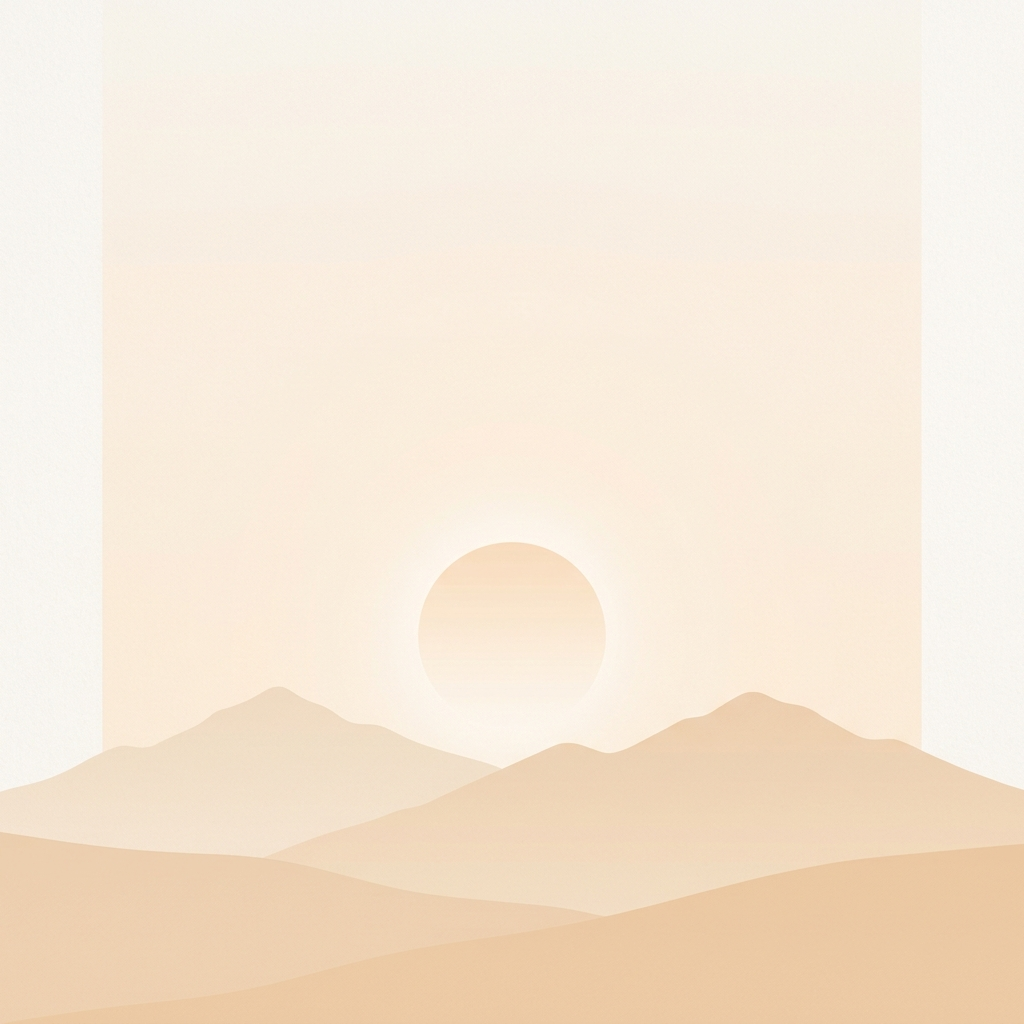
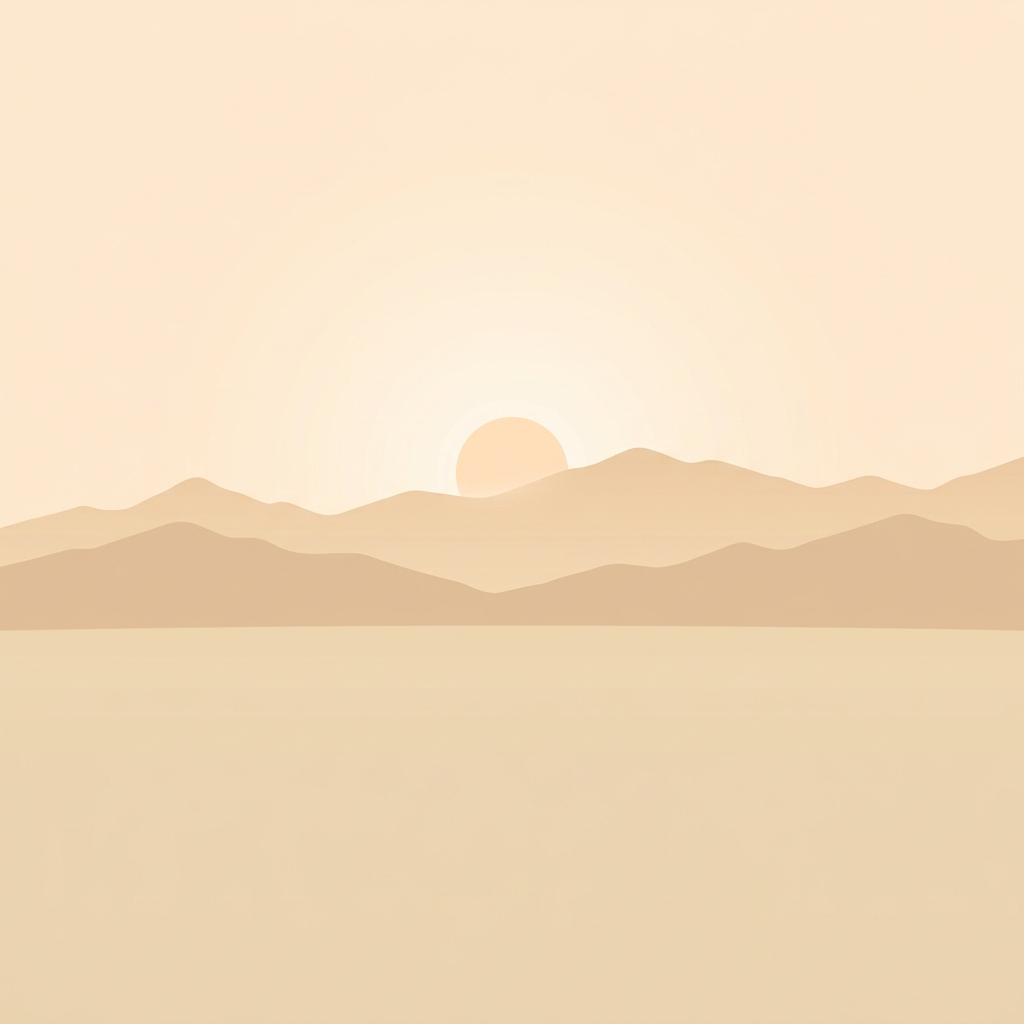
feat: implement global dynamic background and translucent glassmorphism surfaces

diff --git a/src/App.tsx b/src/App.tsx
@@ -44,14 +44,21 @@ export default function App() {
     );
   }
 
+  const currentHour = new Date().getHours();
+  let bgPhase = 'bg_lunch';
+  if (currentHour >= 5 && currentHour < 11) bgPhase = 'bg_breakfast';
+  else if (currentHour >= 17 || currentHour < 5) bgPhase = 'bg_dinner';
+
   return (
-    <div className="max-w-2xl mx-auto min-h-dvh relative flex flex-col" style={{ background:'var(--bg)' }}>
+    <div className="max-w-2xl mx-auto min-h-dvh relative flex flex-col bg-cover bg-fixed bg-center" 
+         style={{ backgroundImage: `url('/images/${bgPhase}.png')`, backgroundColor: 'var(--bg)' }}>
       <AppBar />
       <PwaBanner />
       {['weekly','random','seasonal'].includes(currentTab) && <FilterBar />}
 
       {/* Desktop tab nav */}
-      <div className="hidden sm:flex border-b sticky z-40 overflow-x-auto hide-scrollbar" style={{ top:'112px', background:'var(--surface)', borderColor:'var(--border)' }}>
+      <div className="hidden sm:flex border-b sticky z-40 overflow-x-auto hide-scrollbar backdrop-blur-md" 
+           style={{ top:'112px', background:'var(--surface)', borderColor:'var(--border)' }}>
         {(['weekly','random','seasonal','groceries','saved'] as TabType[]).map(tab => (
           <button key={tab} onClick={() => setTab(tab)}
             className="px-6 py-3 text-sm font-bold transition-all border-b-2 whitespace-nowrap"

diff --git a/src/components/MealCard.tsx b/src/components/MealCard.tsx
@@ -38,7 +38,7 @@ export default function MealCard({ dish: rawDish, mealType, dayIdx, animDelay = 
   if (dish.oilFree) tags.push('💧');
 
   return (
-    <div className="rounded-lg overflow-hidden cursor-pointer active:scale-[.978] transition-transform animate-slide-up"
+    <div className="rounded-lg overflow-hidden cursor-pointer active:scale-[.978] transition-transform animate-slide-up backdrop-blur-md"
       style={{ background:'var(--surface)', border:'1px solid var(--border)',
         boxShadow:'0 4px 24px rgba(0,0,0,0.3)', animationDelay:`${animDelay}ms` }}
       onClick={() => openModal({ dish, mealType })}>

diff --git a/src/index.css b/src/index.css
@@ -6,8 +6,8 @@
 :root {
   /* Dark theme (default) */
   --bg:        #0C0907;
-  --surface:   #181108;
-  --surface2:  #221A0C;
+  --surface:   rgba(28, 23, 20, 0.85);
+  --surface2:  rgba(36, 30, 26, 0.85);
   --border:    #32210F;
   --border2:   #453018;
   --text:      #F0E4D0;
@@ -23,9 +23,9 @@
 }
 
 html.light {
-  --bg:       #F4EFE8;
-  --surface:  #FFFFFF;
-  --surface2: #FAF6F0;
+  --bg:       #F8F5F0;
+  --surface:  rgba(255, 255, 255, 0.85);
+  --surface2: rgba(244, 239, 232, 0.85);
   --border:   #E2D5C4;
   --border2:  #CFC0A8;
   --text:     #1E110A;
